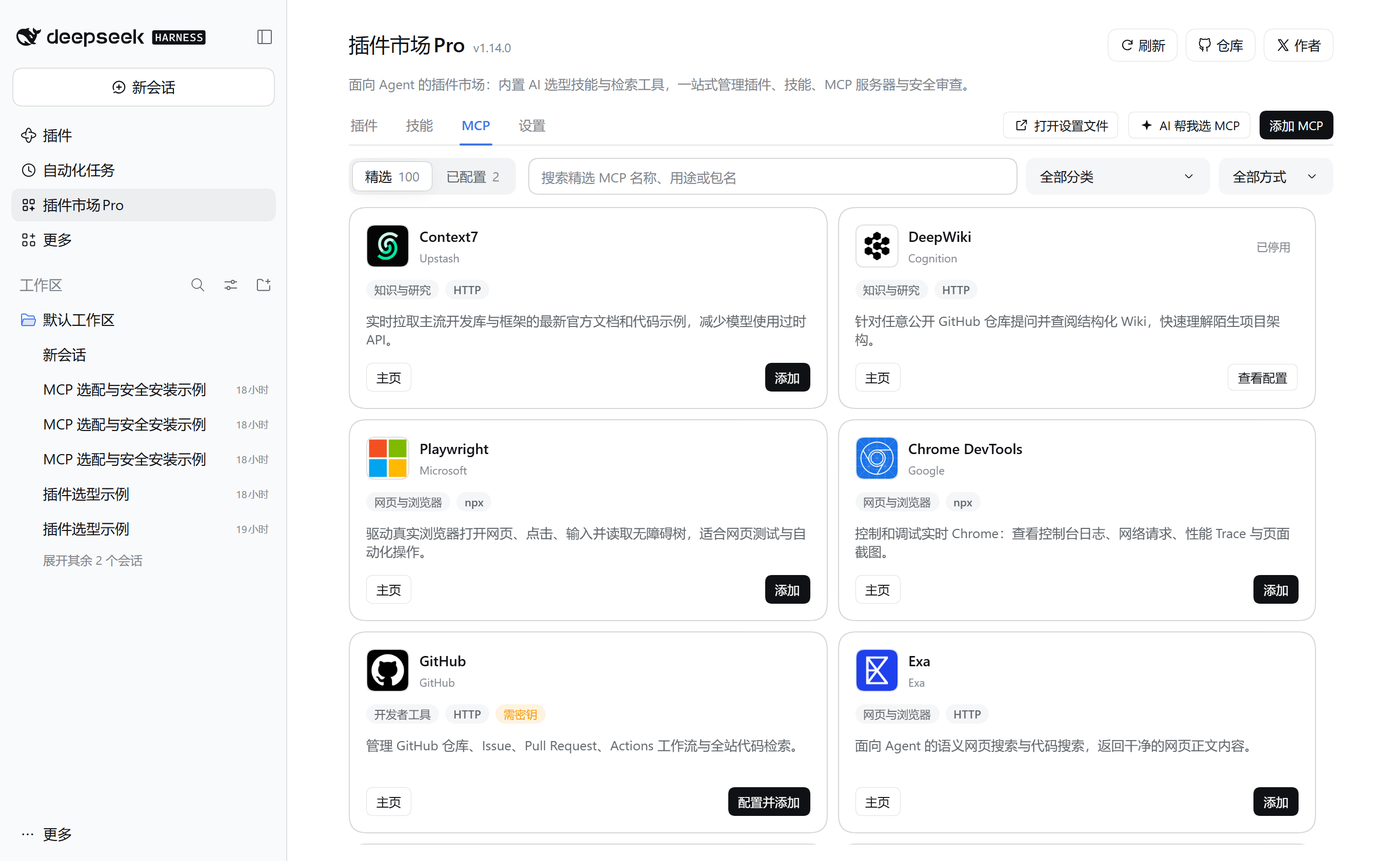
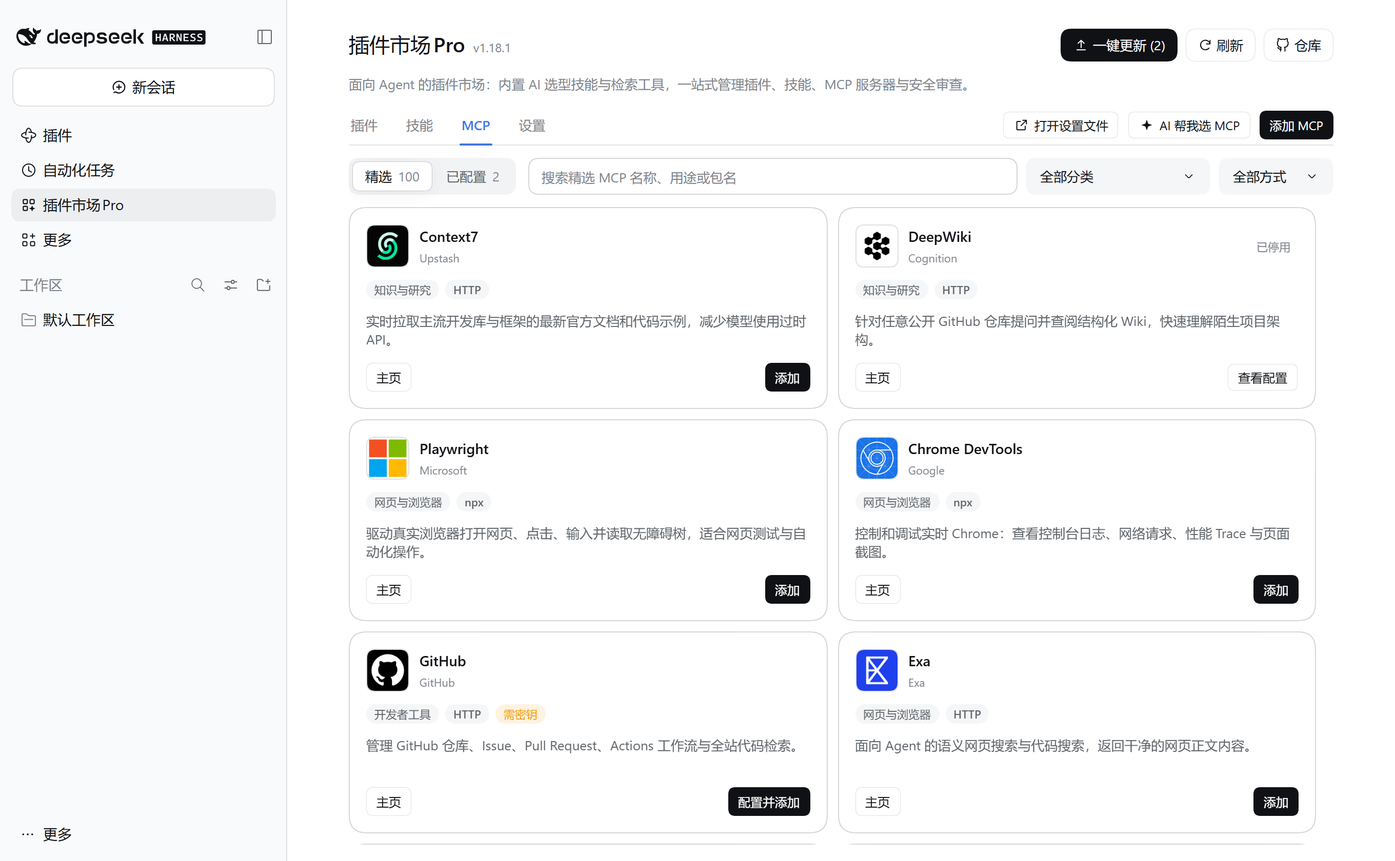
docs: refresh README and screenshots for v1.18 features

Changed region(s): [[0.0312, 0.5262, 0.1562, 0.681], [0.75, 0.031, 0.9375, 0.0929], [0.0312, 0.4024, 0.1562, 0.4952]]

diff --git a/README_EN.md b/README_EN.md
@@ -17,15 +17,18 @@ An AI-native third-party plugin marketplace for DeepSeek Harness (DSH) (web dire
 
 ## Key Features
 
-- **Agent-Native AI Discovery, Batch Updates & Safe Setup (Unified `/market-pro` Skill + Plugins, Skills & MCP Tools)**:
-  - Enabled by default as soon as `dsh-market-pro` is installed: automatically registers the unified bundled **`market-pro`** skill along with three underlying tools — **`dsh_market_pro`** (plugins & batch updates), **`dsh_skills_pro`** (100 curated Agent Skills & approval-gated direct install), and **`dsh_mcp_pro`** (curated & custom MCP setup) — and cleans them up automatically when disabled or uninstalled.
-  - **Discover plugins, skills, batch-update, and configure MCPs in conversation**: describe what you need in natural language, invoke **`/market-pro`** directly (including cross-type plugin vs skill vs MCP recommendations), or click **Ask AI to pick plugins**, **Ask AI to pick skills**, or **Ask AI to pick MCP** in the toolbar.
-  - **High-precision search & environment awareness**: supports CJK 2-gram fallback, bilingual multi-synonym queries, installed/configured filtering, and batch detail lookups across locally cached editor's picks, 29,000+ community repositories, 100 curated skills, and 100 built-in curated MCP servers — while checking installed plugins, skills, and live MCP servers to avoid duplicates.
-  - **Defense-in-depth anti-injection, native approval & zero plaintext secrets**: discovery and update checks are strictly read-only, scrubbing invisible Unicode payloads, neutralizing angle brackets, and wrapping output inside `<untrusted_market_data>` / `<untrusted_mcp_data>` / `<untrusted_skill_data>` envelopes. Plugin installs go through official `plugin_manager` approval; batch plugin updates (`update_plugins`) pin exact user-confirmed package/version pairs and fail closed through DSH's native approval prompt listing every item; curated skill direct installs (`install_featured`) and MCP mutations (`install_featured` / `install_custom` / `set_enabled`) likewise fail closed through native approval while rejecting plaintext secrets and auto-binding `${credential:REF}` templates.
-  - **Instant toggle, zero-token friendly**: turn **AI Discovery Assistant (Plugins, Skills & MCP)** off anytime in **DSH Market Pro → Settings** to withdraw the bundled skill and all tools immediately with zero standing token overhead, or toggle online catalog access per profile. Compact **Refresh** and **Repo** buttons sit in the top-right header for quick access and feedback.
-- **Curated & Full Catalog**: Filters out unrelated projects and topic riders. Opens on editor's picks while offering the full verified catalog with category filters, keyword/package search, **Active & popular / Most stars / Recently updated** sorting in **All**, and guided cross-scope switching when a narrower view has no matches.
-- **One-Click Install**: Install and enable plugins directly from their cards; for repositories without direct install metadata, generate a prompt draft so your AI agent can verify and install them for you.
-- **Manage, Filter & Batch-Update Installed Plugins**: Installed plugin cards share the same unified card geometry as Skills and MCP, automatically displaying catalog brand logos, category tags, and localized titles/descriptions (all searchable). Filter by **All installed / Updates available**, toggle enable/disable states live without restarting, uninstall, pick from scrollable version lists per plugin, or run **Update all** (confirm checklist → sequential updates with skip-on-failure & retry failed → summary, automatically ordering `dsh-market-pro` last). When `dsh-market-pro` itself has an update, a quick update button also appears next to Refresh in the header.
+- **Agent-Native AI Discovery, Install & Batch Updates (Unified `/market-pro` Skill + Plugins, Skills & MCP Tools)**:
+  - Enabled by default as soon as `dsh-market-pro` is installed: automatically registers the unified bundled **`market-pro`** skill along with three underlying tools — **`dsh_market_pro`** (plugins, compatibility checks, `install_plugin`, & batch updates), **`dsh_skills_pro`** (100 curated Agent Skills & approval-gated direct install), and **`dsh_mcp_pro`** (curated & custom MCP setup) — and cleans them up automatically when disabled or uninstalled.
+  - **Discover plugins, install packages, pick skills, configure MCPs, and batch-update in conversation**: describe what you need in natural language, invoke **`/market-pro`** directly (including cross-type plugin vs skill vs MCP recommendations), or click **Ask AI to pick plugins**, **Ask AI to pick skills**, or **Ask AI to pick MCP** in the toolbar.
+  - **High-precision search, environment awareness & compatibility diagnostics**: supports CJK 2-gram fallback, bilingual multi-synonym queries, installed/configured filtering, and batch detail lookups across locally cached editor's picks, 29,000+ community repositories, 100 curated skills, and 100 built-in curated MCP servers — checking installed plugins, skills, and live MCP servers to avoid duplicates while surfacing bidirectional DSH version compatibility and compatible fallback releases.
+  - **Defense-in-depth anti-injection, native approval & zero plaintext secrets**: discovery and update checks are strictly read-only, scrubbing invisible Unicode payloads, neutralizing angle brackets, and wrapping output inside `<untrusted_market_data>` / `<untrusted_mcp_data>` / `<untrusted_skill_data>` envelopes. After you confirm, plugin installs run directly through `dsh_market_pro`'s **`install_plugin`** with DSH native approval and explicit `pendingBuilds` script authorization (working out of the box in Standard mode; falling back to `plugin_manager` only when unavailable or for local/non-GitHub/Gitee sources). Batch plugin updates (`update_plugins`) pin exact user-confirmed package/version pairs and fail closed through DSH's native approval prompt listing every item; curated skill direct installs (`install_featured`) and MCP mutations (`install_featured` / `install_custom` / `set_enabled`) likewise fail closed through native approval while rejecting plaintext secrets and auto-binding `${credential:REF}` templates.
+  - **Instant toggle, zero-token friendly**: turn **AI Discovery Assistant (Plugins, Skills & MCP)** off anytime in **DSH Market Pro → Settings** to withdraw the bundled skill and all tools immediately with zero standing token overhead, toggle online catalog access per profile, manage telemetry privacy settings, or use the permanent GitHub Star link. Compact **Refresh** and **Repo** buttons sit in the top-right header alongside **Update all (N)** whenever any installed plugin has an update.
+- **Curated, Official Experimental & Full Catalog**: Filters out unrelated projects and topic riders. Opens on editor's picks, includes an **Experimental** sub-tab synced live with the Host for official DSH experimental bundles (state filter, on-demand install & enable, updates, and uninstall feedback), and offers the full verified community catalog with category filters, keyword/package search, **Active & popular / Most stars / Recently updated** sorting in **All**, and guided cross-scope switching when a narrower view has no matches.
+- **One-Click Install & Add Plugin Dialog**: Install and enable catalog plugins directly from their cards, or generate a prompt draft so your AI agent can verify and install unlisted repositories. Click **Add plugin** to manually install npm packages (`pkg@version`), GitHub/Git HTTPS URLs (`#branch` / `#path:subdir`), or local paths (`file:` / `link:`), complete with a collapsible install guide, registry selector (default / npm official / China mirror / custom registry), and checking/unknown-state recovery.
+- **Bidirectional DSH Version Compatibility & Multi-Version Fallback**:
+  - **Directional diagnosis**: distinguishes "plugin requires a newer DSH" (**DSH upgrade needed**) from "plugin only supports older DSH releases and was skipped by the runtime" (**Plugin outdated** / **Incompatible**), as well as partially compatible monorepos — presenting exact version constraints and remedies across catalog cards, install modals, Installed/Experimental cards, update selectors, and AI tool output while disabling invalid Enable buttons.
+  - **Multi-version compatible fallback**: when the latest release in a subscription feed targets a newer DSH, automatically selects the newest compatible release for your running Host with an inline notice in the install dialog, and displays localized `incompatible-version` guidance (hiding invalid retry) if an install is blocked at runtime.
+- **Manage, Filter & Batch-Update Installed Plugins**: Installed plugin cards share the same unified card geometry as Skills and MCP, reading local DSH `locale/*.json` metadata and local package icons without circular avatar cropping alongside catalog brand logos (all searchable). Filter by **All installed / Updates available**, toggle enable/disable states live without restarting, uninstall with elapsed-time & refresh status feedback during slow cleanups, pick from scrollable version lists per plugin (with directional compatibility reasons on blocked versions), or run **Update all** (confirm checklist → sequential updates with skip-on-failure & retry failed → summary, automatically ordering `dsh-market-pro` last) right from the **Update all (N)** header button whenever any plugin has an update.
 - **Post-Install AI Review**: Prepare a review draft in your conversation input box (sent only when you confirm) to have your AI agent inspect installed plugin files for network calls, credential access, scripts, and other potential risks.
 - **Curated Skills Direct Install, Verified Provenance & Grouped Management**:
   - **100 curated Agent Skills (from skills.sh All Time)**: organized under the same 7 functional categories as Plugins (with category + source dropdown filters) and displaying real organization/author brand logos;
@@ -45,10 +48,10 @@ Compared with other common discovery and management approaches, DSH Market Pro u
 | Dimension | DSH Market Pro (This Plugin) | Official DSH Discover (`dsh-plugin-market`) | Typical UI-Only / Broad Community Markets | Standalone Discovery Skill / MCP Server |
 |---|---|---|---|---|
 | **Catalog Quality & Curation** | **Verified real plugins + curated skills + curated MCPs**: daily checks filter out topic riders, empty repos, and non-plugins; combines **editor's picks + 29,000+ full catalog + 100 curated skills + 100 curated MCPs** with local cache & mirror failover (including jsDelivr fallback for skills) | Reads user-configured format-1 index URLs only; does not ship a built-in community directory | Many aggregate broadly by GitHub topic, often mixing non-plugins or uninstallable repos that require manual filtering | Relies on external registry APIs or CLIs with limited DSH manifest & install-target coverage |
-| **In-Chat AI Discovery & Setup** | **Enabled by default in Standard & Creator modes**: unified bundled `/market-pro` skill and `dsh_market_pro` + `dsh_skills_pro` + `dsh_mcp_pro` tools for cross-type discovery, approval-gated batch plugin updates, and safe MCP install/toggle | Exposes `plugin_market` tool, but **enabled only in Creator preset by default** with no companion discovery skill or MCP installer | Mostly click-to-browse UIs without autonomous in-chat catalog search | Supports chat discovery, but usually requires an extra MCP subprocess or CLI and provides no management UI |
-| **Environment Awareness** | Jointly inspects active profile **installed plugins + managed/static MCPs & live tool groups**, skips duplicates, and recommends complementary capabilities | Annotates listing install status without MCP/skills cross-checking | Typically limited to per-card installed badges rather than conversation-level planning | Generally lacks direct visibility into the active DSH profile's installed plugins and managed MCPs |
-| **Management Scope** | **Plugins + Skills + Curated & Managed MCPs + Settings** in one place (live toggle, updates-available filter & one-click batch updates, one-click curated MCP add, adoption, credentials, tools dialog) | Focused on plugin discovery and installation; no Skills tab or MCP manager UI | Focused on browsing, ratings, or discussions; managing MCP/skills usually requires separate plugins | Single-purpose (skills-only or MCP-only), without host plugin lifecycle management |
-| **Security & Anti-Injection** | **Defense-in-depth** (invisible Unicode scrubbing + angle-bracket neutralization + untrusted-data envelopes) + official `plugin_manager` / native approval + **zero plaintext secrets** + **post-install AI review** | Notes untrusted text in tool description; installs via official `plugin_manager` approval | Varies by project; mostly UI notices or install-time checks | Primarily relies on prompt-level confirmation reminders, rarely enforcing protocol isolation or zero-plaintext-secret checks |
+| **In-Chat AI Discovery & Setup** | **Enabled by default in Standard & Creator modes**: unified bundled `/market-pro` skill and `dsh_market_pro` + `dsh_skills_pro` + `dsh_mcp_pro` tools for cross-type discovery, compatibility checks, native-approval `install_plugin` & batch plugin updates, and safe MCP install/toggle | Exposes `plugin_market` tool, but **enabled only in Creator preset by default** with no companion discovery skill or MCP installer | Mostly click-to-browse UIs without autonomous in-chat catalog search | Supports chat discovery, but usually requires an extra MCP subprocess or CLI and provides no management UI |
+| **Environment Awareness** | Jointly inspects active profile **installed plugins + managed/static MCPs & live tool groups**, skips duplicates, and checks bidirectional DSH compatibility + fallback releases | Annotates listing install status without MCP/skills cross-checking | Typically limited to per-card installed badges rather than conversation-level planning | Generally lacks direct visibility into the active DSH profile's installed plugins and managed MCPs |
+| **Management Scope** | **Plugins (Featured / Experimental / All / Add plugin) + Skills + Curated & Managed MCPs + Settings** in one place (live toggle, updates filter & header **Update all (N)**, curated MCP one-click add, adoption, credentials, tools dialog) | Focused on plugin discovery and installation; no Skills tab or MCP manager UI | Focused on browsing, ratings, or discussions; managing MCP/skills usually requires separate plugins | Single-purpose (skills-only or MCP-only), without host plugin lifecycle management |
+| **Security & Anti-Injection** | **Defense-in-depth** (invisible Unicode scrubbing + angle-bracket neutralization + untrusted-data envelopes) + `install_plugin` / native approval (with `pendingBuilds` authorization) + **zero plaintext secrets** + **post-install AI review** | Notes untrusted text in tool description; installs via official `plugin_manager` approval | Varies by project; mostly UI notices or install-time checks | Primarily relies on prompt-level confirmation reminders, rarely enforcing protocol isolation or zero-plaintext-secret checks |
 | **Token Overhead Control** | Compact single-language output & batch lookups; **one-click toggle in Settings** immediately withdraws all skills & tools for **zero standing token cost** | Schema cost applies in presets where the tool is enabled | Passive UI with zero standing conversation overhead | Separate MCP process continuously injects tool schemas into sessions |
 
 > This comparison reflects public implementations and typical designs. Each approach has its own focus (for example, UI-focused markets work well if you prioritize community comments or screenshot galleries). DSH Market Pro is built for users who want a **verified plugin dataset, built-in curated MCP catalog, unified plugin/skill/MCP management**, and an **out-of-the-box yet instantly toggleable agent-native discovery loop**.
@@ -80,8 +83,8 @@ Or invoke the unified bundled skill explicitly:
 Your agent uses `dsh_market_pro` to:
 
 1. **Inspect your environment** (`environment`) to see installed plugins and MCP servers and avoid duplicates.
-2. **Search curated & full catalogs** (`featured` / `search` / `detail`) to verify install targets, activity, and prerequisites.
-3. **Compare and install safely** — presenting 2–4 tailored options and invoking the official `plugin_manager` only after your confirmation, followed by an optional read-only security review.
+2. **Search curated & full catalogs** (`featured` / `search` / `detail`) to verify install targets, activity, prerequisites, and bidirectional DSH compatibility (automatically selecting the newest compatible fallback release when multi-version metadata is present).
+3. **Compare and install safely** — presenting 2–4 tailored options and calling `dsh_market_pro`'s **`install_plugin`** directly after your confirmation to trigger DSH native approval and explicit `pendingBuilds` script authorization in Standard mode (falling back to `plugin_manager` for local paths or when unavailable), followed by an optional read-only security review.
 
 ![Chat-native AI plugin discovery](https://raw.githubusercontent.com/bruc3van/dsh-market-pro/master/assets/screenshots/marketplace-ai-chat.png)
 
@@ -131,11 +134,23 @@ Your agent uses `dsh_skills_pro` to complete a safe end-to-end flow:
 
 ## Interface Preview
 
-### Marketplace Settings (AI Assistant & Catalog Switches)
+### Marketplace Settings (AI Assistant, Catalog & Support)
 
-Toggle **AI Discovery Assistant (Plugins, Skills & MCP)** and **Community Plugin Catalog** from the **Settings** tab with immediate effect and per-profile persistence, or jump straight into chat to try AI discovery.
+Toggle **AI Discovery Assistant (Plugins, Skills & MCP)**, **Community Plugin Catalog**, and **Anonymous Usage Telemetry** (with an inline privacy link) from the **Settings** tab with immediate effect and per-profile persistence, jump straight into chat to try AI discovery, or open the permanent GitHub Star link.
 
 ![Marketplace settings view](https://raw.githubusercontent.com/bruc3van/dsh-market-pro/master/assets/screenshots/marketplace-settings.png)
+
+### Official Experimental Plugins
+
+Switch to **Experimental** to manage official optional and experimental DSH bundles synced live with the Host — filter by enabled state, install and enable on demand, apply updates, monitor uninstall progress, and inspect directional compatibility guidance if a bundle is incompatible with your running DSH build.
+
+![Official experimental plugins tab](https://raw.githubusercontent.com/bruc3van/dsh-market-pro/master/assets/screenshots/marketplace-official.png)
+
+### Manual Plugin Install & Registry Selector
+
+Click **Add plugin** in the toolbar to install directly from an npm package spec (with optional version), a GitHub/Git HTTPS URL (`#branch` / `#path:subdir`), or a local directory path — complete with collapsible examples, a registry selector (default / npm official / China mirror / custom registry), and inline compatibility checks.
+
+![Manual plugin install dialog](https://raw.githubusercontent.com/bruc3van/dsh-market-pro/master/assets/screenshots/marketplace-manual-install.png)
 
 ### Full Catalog & Sorting
 
@@ -165,7 +180,7 @@ In addition to the main navigation bar, you can open **DSH Market Pro** directly
 
 ### Installed Plugins, Filtering & Batch Updates
 
-Manage your installed plugins under the **Installed** tab: filter by **All installed / Updates available**, toggle enable/disable states live, uninstall, pick from scrollable version lists per plugin, or click **Update all** to confirm and sequentially upgrade plugins (skipping failures with one-click retry). When `dsh-market-pro` itself has an update, a quick update button also appears in the top-right header.
+Manage your installed plugins under the **Installed** tab with local `locale/*.json` titles/descriptions and crisp local package icons: filter by **All installed / Updates available**, toggle enable/disable states live, uninstall with elapsed-time & refresh feedback for slow cleanups, pick from scrollable version lists per plugin (with directional compatibility reasons when a release requires a newer or older Host), or click **Update all (N)** in the top-right header whenever any plugin has an update to confirm and sequentially upgrade plugins (skipping failures with one-click retry).
 
 ![Installed panel](https://raw.githubusercontent.com/bruc3van/dsh-market-pro/master/assets/screenshots/marketplace-installed.png)
 
@@ -193,7 +208,7 @@ Browse the 100 curated All Time skills from skills.sh under **Skills → Feature
 
 - **Security reminder**: Catalog inclusion verifies that a project is a DSH plugin, not that it is safe. Always review a plugin's source and requested permissions before installing.
 - **About AI review**: AI review is an optional post-install check on local plugin files to help you assess risk; it cannot prevent or undo code that has already executed during installation.
-- **Anonymous telemetry**: Enabled by default, sending a daily heartbeat (local random install ID, plugin & DSH version, host type, OS, locale) and official-catalog public plugin / curated MCP install outcomes to [dsh-market-pro.com](https://dsh-market-pro.com) to measure adoption and improve install reliability. It never collects chats, file paths, secrets, private plugins, or custom MCPs (non-public targets are dropped without sending). Turn it off anytime under **Settings → Anonymous Usage Telemetry** (stops immediately and clears the local ID) or via `DO_NOT_TRACK=1` / `DSH_MARKET_TELEMETRY=0` / `DSH_TELEMETRY_DISABLED=1`. See [PRIVACY.md](https://github.com/bruc3van/dsh-market-pro/blob/master/PRIVACY.md) for exact payload examples.
+- **Anonymous telemetry**: Enabled by default, sending a daily heartbeat (local random install ID, plugin & DSH version, host type, OS, locale) and official-catalog public plugin / built-in curated skill / built-in curated MCP install outcomes (mapping failures strictly to closed, privacy-safe error codes) to [dsh-market-pro.com](https://dsh-market-pro.com) to measure adoption and improve compatibility. It never collects chats, file paths, secrets, raw error stacks, private plugins, custom skills, or custom MCPs (non-public targets are dropped without sending). Turn it off anytime under **Settings → Anonymous Usage Telemetry** (stops immediately and clears the local ID) or via `DO_NOT_TRACK=1` / `DSH_MARKET_TELEMETRY=0` / `DSH_TELEMETRY_DISABLED=1` / `CI=true`. See [PRIVACY.md](https://github.com/bruc3van/dsh-market-pro/blob/master/PRIVACY.md) for exact payload examples.
 
 ## Related Projects
 

diff --git a/README.md b/README.md
@@ -19,15 +19,18 @@ DeepSeek Harness（DSH）的 AI 原生第三方插件市场（官网与在线目
 
 ## 主要功能
 
-- **面向 Agent 的 AI 原生选型与批量更新（统一内置 Skill `/market-pro` + 插件 · 技能 · MCP 三大工具）**：
-  - 安装并启用 `dsh-market-pro` 后，默认自动向当前 DSH 会话注册统一内置技能 **`market-pro`** 以及三大底层工具 **`dsh_market_pro`**（插件选型与批量更新）、**`dsh_skills_pro`**（100 精选技能检索、盘点与原生审批直装）、**`dsh_mcp_pro`**（精选与自定义 MCP 托管安装），无需手工配置，卸载或停用插件时自动清理。
-  - **直接对话即可挑插件、选技能、配 MCP、一键更插件**：在任意会话中自然语言描述需求，或输入 **`/market-pro`** 显式唤起（支持跨插件/技能/MCP 联合选型与去重）；也可以在市场顶部点击 **「AI 帮我选插件」**、**「AI 帮我选技能」** 或 **「AI 帮我选 MCP」** 一键发起对话。
-  - **精准检索与智能盘点**：支持中文分词回退、中英多同义词并查、已装/已配项过滤与批量详情核对，直接读取本地缓存的编辑精选、2.9 万+ 全量插件目录、100 个精选技能与内置 100 个精选 MCP 目录，并联合盘点当前环境已安装的插件、技能与 MCP 避免重复推荐。
-  - **纵深防注入、原生审批与零明文密钥**：所有检索与更新探测严格只读，对第三方元数据执行隐形 Unicode 剥离、尖括号中和与 `<untrusted_market_data>` / `<untrusted_mcp_data>` / `<untrusted_skill_data>` 协议边界隔离；插件安装经你确认后交由官方 `plugin_manager` 走宿主审批，插件批量更新（`update_plugins`）严格绑定你确认过的精确包名与版本、强制走 DSH 原生审批（fail-closed）并完整列出每一项，技能直装（`install_featured`）与 MCP 安装/启停（`install_featured` / `install_custom` / `set_enabled`）同样强制走原生审批，拒绝一切明文密钥并自动绑定 `${credential:REF}` 凭据模板。
-  - **随时可控，兼顾零 Token 偏好**：在市场顶部的 **设置** 页签中可随时一键关闭或开启 **AI 选型助手（插件 · 技能 · MCP）**，关闭后立即撤回内置技能与全部工具、回归零常驻 Token；同时也支持一键开关社区目录联网加载，修改即时生效并随当前 profile 持久化。顶部操作栏直接展示 **刷新** 与 **仓库**，方便随时查阅与反馈。
-- **精选与全量目录**：剔除蹭标签与非插件项目。打开即展示编辑精选，同时提供完整插件目录，支持按分类筛选、关键词与包名搜索、「全部」目录按**活跃热门 / Star 最多 / 最近更新**排序，以及在精选或已安装范围搜不到时的**跨范围一键引导**。
-- **一键安装**：已收录安装信息的插件可直接点击安装并启用；未提供直接安装信息的仓库，可一键生成提示词交由 AI 核实后完成安装。
-- **已安装管理、筛选与一键批量更新**：已安装插件卡片与精选/技能/MCP 统一卡片几何与视觉层次，自动关联目录品牌 Logo、分类标签与中英文简介（均支持关键词检索），支持随时启用/停用（立即生效，无需重启）、卸载、按**全部状态 / 有新版**筛选，以及单插件多版本选择升级与**一键批量更新**（先弹窗确认清单、可勾选、依次更新、失败项自动跳过并支持重试、本插件自动最后更新）；当 `dsh-market-pro` 自身有新版时，主面板右上角刷新按钮旁直接提供快捷更新按钮。
+- **面向 Agent 的 AI 原生选型、直装与批量更新（统一内置 Skill `/market-pro` + 插件 · 技能 · MCP 三大工具）**：
+  - 安装并启用 `dsh-market-pro` 后，默认自动向当前 DSH 会话注册统一内置技能 **`market-pro`** 以及三大底层工具 **`dsh_market_pro`**（插件选型、兼容性检查、`install_plugin` 安全直装与批量更新）、**`dsh_skills_pro`**（100 精选技能检索、盘点与原生审批直装）、**`dsh_mcp_pro`**（精选与自定义 MCP 托管安装），无需手工配置，卸载或停用插件时自动清理。
+  - **直接对话即可挑插件、装插件、选技能、配 MCP、一键更插件**：在任意会话中自然语言描述需求，或输入 **`/market-pro`** 显式唤起（支持跨插件/技能/MCP 联合选型与去重）；也可以在市场顶部点击 **「AI 帮我选插件」**、**「AI 帮我选技能」** 或 **「AI 帮我选 MCP」** 一键发起对话。
+  - **精准检索、环境盘点与兼容性诊断**：支持中文分词回退、中英多同义词并查、已装/已配项过滤与批量详情核对，直接读取本地缓存的编辑精选、2.9 万+ 全量插件目录、100 个精选技能与内置 100 个精选 MCP 目录；联合盘点当前环境已安装的插件、技能与 MCP 避免重复推荐，并在检索、详情与更新前自动识别插件与当前 DSH 版本的双向兼容性及多版本自动回退版本。
+  - **纵深防注入、原生审批与零明文密钥**：所有检索与更新探测严格只读，对第三方元数据执行隐形 Unicode 剥离、尖括号中和与 `<untrusted_market_data>` / `<untrusted_mcp_data>` / `<untrusted_skill_data>` 协议边界隔离；插件安装经你确认后直接通过 `dsh_market_pro` 的 `install_plugin` 发起 DSH 原生审批与构建脚本（`pendingBuilds`）显式授权（标准模式即可直接使用；仅在 API 不可用或安装本地/非 GitHub·Gitee 来源时回退至 `plugin_manager`），插件批量更新（`update_plugins`）严格绑定你确认过的精确包名与版本、强制走 DSH 原生审批（fail-closed）并完整列出每一项，技能直装（`install_featured`）与 MCP 安装/启停（`install_featured` / `install_custom` / `set_enabled`）同样强制走原生审批，拒绝一切明文密钥并自动绑定 `${credential:REF}` 凭据模板。
+  - **随时可控，兼顾零 Token 偏好**：在市场顶部的 **设置** 页签中可随时一键关闭或开启 **AI 选型助手（插件 · 技能 · MCP）**，关闭后立即撤回内置技能与全部工具、回归零常驻 Token；同时也支持一键开关社区目录联网加载、查看/关闭匿名统计，并在设置页内置永久 GitHub Star 支持入口，修改即时生效并随当前 profile 持久化。顶部操作栏直接展示 **刷新** 与 **仓库**，并在检测到任意已安装插件有新版时展示 **一键更新 (N)**。
+- **精选、官方实验性与全量目录**：剔除蹭标签与非插件项目。打开即展示编辑精选，提供 **官方实验性** 子页签与宿主实时同步管理 DSH 内置可选/实验性插件（支持按启用状态筛选、按需安装并启用、版本更新与卸载进度反馈），同时提供完整社区目录，支持按分类筛选、关键词与包名搜索、「全部」目录按**活跃热门 / Star 最多 / 最近更新**排序，以及在局部视图搜不到时的**跨范围一键引导**。
+- **一键安装与手动添加插件**：已收录安装信息的插件可直接点击安装并启用；未提供直接安装信息的仓库，可一键生成提示词交由 AI 核实后完成安装。右上角提供 **添加插件** 弹窗，支持输入 npm 包名（可指定版本）、GitHub / Git 仓库地址（支持 `#分支` 与 `#path:子目录`）或本地目录路径，内置可折叠安装引导示例、多安装源切换（默认源 / npm 官方源 / 中国大陆镜像 / 自定义私服）与检查/未知状态恢复机制。
+- **双向 DSH 版本兼容性校验与多版本自动回退**：
+  - **双向识别与方向性提示**：不仅拦截「插件要求更高版本 DSH」（**需升级 DSH**），也能识别「插件仅支持旧版宿主、已被当前 DSH 拒绝加载」（**插件版本过旧** / **版本不兼容**），以及 Monorepo 半安装兼容性问题，在卡片、安装弹窗、已安装/官方实验性卡片、更新列表与 AI 工具返回中统一呈现具体版本要求与修复指引（引导升级 DSH 或更新插件，并禁用无效启用按钮）。
+  - **订阅多版本自动兼容回退**：当订阅插件最新版需要更高版本 DSH 时，自动从多版本索引中选用适配当前 DSH 的最新兼容稳定版，并在安装弹窗中给出内联说明；若安装包仍因版本不兼容被宿主拦截，则本地化展示失败详情并隐藏无效重试按钮。
+- **已安装管理、筛选与一键批量更新**：已安装插件卡片与精选/技能/MCP 统一卡片几何与视觉层次，读取本地插件 `locale/*.json` 多语言名称/简介与包内本地图标（去除头像圆角裁切）并关联目录品牌 Logo，支持随时启用/停用（立即生效，无需重启）、卸载（慢清理时实时显示耗时安抚与状态刷新）、按**全部状态 / 有新版**筛选，以及单插件多版本选择升级（对不兼容历史/新版给出方向性禁用原因）与**一键批量更新**（先弹窗确认清单、可勾选、依次更新、失败项自动跳过并支持重试、本插件自动最后更新）；无论哪个已安装插件有新版，主面板右上角都会直接显示 **一键更新 (N)** 快捷按钮。
 - **安装后 AI 审查**：支持对已安装插件生成审查草稿并填入对话框（由你确认发送），让 AI 协助排查本地插件代码中的联网请求、凭据读取或脚本执行等潜在风险。
 - **精选技能零依赖直装、来源校验与分组管理**：
   - **100 个精选 Agent 技能（源自 skills.sh All Time）**：与插件统一采用 7 大功能分类（顶栏提供分类 + 来源双下拉筛选），全量展示对应开源组织/作者的真实品牌 Logo；
@@ -47,10 +50,10 @@ DeepSeek Harness（DSH）的 AI 原生第三方插件市场（官网与在线目
 | 对比维度 | DSH Market Pro（本插件） | DSH 官方发现页 (`dsh-plugin-market`) | 常见纯 UI / 泛收录社区市场 | 独立发现型 Skill / MCP 服务 |
 |---|---|---|---|---|
 | **数据源与筛选质量** | **严选真插件 + 精选技能 + 精选 MCP**：每日核验并剔除蹭标签、空仓与非插件项目；提供**编辑精选 + 2.9 万+ 全量插件目录 + 100 个精选技能 + 100 个精选 MCP**，内置国内镜像容灾（含技能 jsDelivr 回退）与本地持久化缓存 | 仅读取用户手动添加的 format-1 订阅索引，自身不内置社区目录 | 部分目录按 GitHub topic 泛抓取，容易混入非插件或无法安装的仓库，需人工甄别 | 依赖第三方聚合 API 或外部 CLI，对 DSH 插件结构与安装目标覆盖有限 |
-| **对话内 AI 选型与配置** | **安装即默认开启，标准模式可用**：统一内置 `/market-pro` 技能与 `dsh_market_pro` + `dsh_skills_pro` + `dsh_mcp_pro` 工具，支持跨形态选型、原生审批一键批量更新插件，以及安全安装/启停 MCP | 提供 `plugin_market` 工具，但**默认仅在 Creator 模式启用**，无配套选型技能与 MCP 安装能力 | 多数侧重界面点击浏览，不提供对话内 Agent 自主查库选型 | 可在对话中检索，但需额外配置独立 MCP 子进程或外部 CLI，缺少可视化管理界面 |
-| **环境感知与去重** | 自动联合盘点当前 profile **已安装插件 + 托管/静态 MCP 与工具组**，自动过滤已装项并推荐互补能力 | 标注订阅条目的安装状态，不含 MCP/技能联合盘点 | 多以卡片已安装徽章为主，不参与对话级能力规划 | 通常无法直接读取当前 DSH profile 的已安装插件与托管 MCP 状态 |
-| **一站式管理范围** | **插件 + 技能 + 精选与托管 MCP + 市场设置**四合一（支持热启停、有新版筛选与一键批量更新、精选 MCP 一键添加、转托管、凭据管理与工具弹窗） | 聚焦插件发现与管理，不含技能页和 MCP 托管界面 | 侧重插件浏览、评分或社区讨论，通常需另装插件管理 MCP 与技能 | 仅聚焦单一类型（只搜 Skill 或只搜 MCP），不含宿主插件管理 |
-| **安全与防注入** | **纵深防注入**（剥离隐形 Unicode + 尖括号中和 + 数据边界隔离）+ 官方 `plugin_manager` / 原生审批 + **零明文密钥凭据模板** + **安装后只读 AI 审查** | 工具描述声明不可信数据，安装走官方 `plugin_manager` 审批 | 各方案策略不一，以页面提示或安装时校验为主 | 多依赖提示词提醒先确认，较少提供协议级数据隔离与零明文密钥强校验 |
+| **对话内 AI 选型与配置** | **安装即默认开启，标准模式可用**：统一内置 `/market-pro` 技能与 `dsh_market_pro` + `dsh_skills_pro` + `dsh_mcp_pro` 工具，支持跨形态选型、兼容性诊断、`install_plugin` 原生审批直装与一键批量更新插件，以及安全安装/启停 MCP | 提供 `plugin_market` 工具，但**默认仅在 Creator 模式启用**，无配套选型技能与 MCP 安装能力 | 多数侧重界面点击浏览，不提供对话内 Agent 自主查库选型 | 可在对话中检索，但需额外配置独立 MCP 子进程或外部 CLI，缺少可视化管理界面 |
+| **环境感知与去重** | 自动联合盘点当前 profile **已安装插件 + 托管/静态 MCP 与工具组**，自动过滤已装项并检查双向 DSH 版本兼容性与兼容替代版本 | 标注订阅条目的安装状态，不含 MCP/技能联合盘点 | 多以卡片已安装徽章为主，不参与对话级能力规划 | 通常无法直接读取当前 DSH profile 的已安装插件与托管 MCP 状态 |
+| **一站式管理范围** | **插件（精选/官方实验性/全量/手动添加）+ 技能 + 精选与托管 MCP + 市场设置**四合一（支持热启停、有新版筛选与右上角 `一键更新 (N)`、精选 MCP 一键添加、转托管、凭据管理与工具弹窗） | 聚焦插件发现与管理，不含技能页和 MCP 托管界面 | 侧重插件浏览、评分或社区讨论，通常需另装插件管理 MCP 与技能 | 仅聚焦单一类型（只搜 Skill 或只搜 MCP），不含宿主插件管理 |
+| **安全与防注入** | **纵深防注入**（剥离隐形 Unicode + 尖括号中和 + 数据边界隔离）+ `install_plugin` / 原生审批（含脚本 `pendingBuilds` 授权）+ **零明文密钥凭据模板** + **安装后只读 AI 审查** | 工具描述声明不可信数据，安装走官方 `plugin_manager` 审批 | 各方案策略不一，以页面提示或安装时校验为主 | 多依赖提示词提醒先确认，较少提供协议级数据隔离与零明文密钥强校验 |
 | **Token 开销控制** | 紧凑单语输出 + 批量查询省轮次；可在 **设置页一键关闭**，立即撤回全部技能与工具，回归**零常驻 Token** | 仅在启用该工具的预设中占用工具声明 | 被动 UI 运行，无常驻对话开销 | 外部 MCP 常驻子进程并持续注入工具 schema |
 
 > 以上对比基于各方案公开形态与典型定位，不同工具各有侧重（例如纯 UI 市场适合偏好社区评论与截图浏览的用户）。如果你希望在 DSH 中同时获得**经过核实的真插件数据源、内置精选 MCP 目录、插件/技能/MCP 一体化管理**以及**开箱即用、随时可关的 Agent 原生选型闭环**，DSH Market Pro 会更省心。
@@ -82,8 +85,8 @@ DeepSeek Harness（DSH）的 AI 原生第三方插件市场（官网与在线目
 Agent 会通过 `dsh_market_pro` 自动完成以下流程：
 
 1. **环境盘点**（`environment`）：了解当前 profile 已安装的插件和 MCP，避免重复推荐。
-2. **精选与全量检索**（`featured` / `search` / `detail`）：优先检索编辑精选与可直装插件，按需扩展至数万社区仓库并核对安装目标与前置依赖。
-3. **对比建议与安全安装**：给出 2–4 个候选对比；在你确认后，调用官方 `plugin_manager` 安装（保留宿主原生审批与脚本授权），并可继续执行只读安全审查。
+2. **精选与全量检索**（`featured` / `search` / `detail`）：优先检索编辑精选与可直装插件，按需扩展至数万社区仓库并核对安装目标、前置依赖及与当前 DSH 版本的双向兼容性（存在多版本索引时自动选择最新兼容版本）。
+3. **对比建议与安全安装**：给出 2–4 个候选对比；在你确认后，直接调用 `dsh_market_pro` 的 `install_plugin` 发起 DSH 原生审批（标准模式可用，若触发 `pendingBuilds` 需你显式授权构建脚本；本地路径或 API 不可用时回退至 `plugin_manager`），并可继续执行只读安全审查。
 
 ![对话内 AI 原生选插件](https://raw.githubusercontent.com/bruc3van/dsh-market-pro/master/assets/screenshots/marketplace-ai-chat.png)
 
@@ -133,11 +136,23 @@ Agent 会通过 `dsh_skills_pro` 完成安全闭环：
 
 ## 界面预览
 
-### 市场设置（AI 助手与数据源开关）
+### 市场设置（AI 助手、数据源与支持入口）
 
-在 **设置** 页签中一键管理 **AI 选型助手（插件 · 技能 · MCP）** 与 **社区插件目录**，即时生效并随当前 profile 持久化，也可以直接点击按钮在对话中试用 AI 选型。
+在 **设置** 页签中一键管理 **AI 选型助手（插件 · 技能 · MCP）**、**社区插件目录** 与 **匿名使用统计**（内联隐私说明链接），即时生效并随当前 profile 持久化，也可以直接点击按钮在对话中试用 AI 选型或前往 GitHub 点亮 Star。
 
 ![市场设置页](https://raw.githubusercontent.com/bruc3van/dsh-market-pro/master/assets/screenshots/marketplace-settings.png)
+
+### 官方实验性插件
+
+切换到 **官方实验性** 与当前宿主实时同步管理 DSH 内置可选与实验性插件，支持按启用状态筛选、按需安装并启用、版本更新及卸载反馈；对不兼容当前 DSH 版本的异常插件也会给出方向性提示并保护性禁用开关。
+
+![官方实验性插件](https://raw.githubusercontent.com/bruc3van/dsh-market-pro/master/assets/screenshots/marketplace-official.png)
+
+### 手动添加插件与多安装源
+
+点击右上角 **添加插件**，直接通过 npm 包名（可指定版本）、GitHub / Git 仓库地址（支持 `#分支` / `#path:子目录`）或本地目录路径安装插件，内置可折叠安装引导示例、多安装源切换（默认安装源 / npm 官方源 / 中国大陆镜像 / 自定义地址）与兼容性诊断。
+
+![手动添加插件弹窗](https://raw.githubusercontent.com/bruc3van/dsh-market-pro/master/assets/screenshots/marketplace-manual-install.png)
 
 ### 全量目录与排序
 
@@ -167,7 +182,7 @@ Agent 会通过 `dsh_skills_pro` 完成安全闭环：
 
 ### 已安装管理、筛选与一键更新
 
-在 **已安装** 页面管理当前环境中的插件，支持按 **全部状态 / 有新版** 筛选、随时启停或卸载、单插件多版本选择升级，以及点击 **一键更新** 确认清单后按顺序批量升级（失败自动跳过并支持重试失败项）；当本插件有新版本时，主面板右上角也会直接展示快捷更新按钮。
+在 **已安装** 页面管理当前环境中的插件，自动读取本地 `locale/*.json` 名称简介与包内图标，支持按 **全部状态 / 有新版** 筛选、随时启停或卸载（慢清理时显示耗时提示与状态刷新）、单插件多版本选择升级（对需升级 DSH 或仅支持旧版宿主的版本分别给出禁用原因），以及当任意已安装插件有新版时直接点击右上角 **一键更新 (N)** 确认清单后按顺序批量升级（失败自动跳过并支持重试失败项）。
 
 ![已安装面板](https://raw.githubusercontent.com/bruc3van/dsh-market-pro/master/assets/screenshots/marketplace-installed.png)
 
@@ -195,7 +210,7 @@ Agent 会通过 `dsh_skills_pro` 完成安全闭环：
 
 - **安全提醒**：目录收录仅核实项目是否为 DSH 插件，不代表安全背书。安装前请留意插件来源与权限要求。
 - **关于 AI 审查**：AI 审查是在插件安装后对本地文件进行的辅助检查，供你评估风险参考，无法阻止或撤销插件安装时已经发生的执行。
-- **匿名使用统计**：默认开启，每天向 [dsh-market-pro.com](https://dsh-market-pro.com) 发送活跃心跳（本地随机安装 ID、插件与 DSH 版本、运行形态、操作系统与语言）以及官方公开目录插件/精选 MCP 的安装成功或失败结果，用于统计安装规模与改进兼容性。绝不采集对话、文件路径、密钥、私有插件或自定义 MCP（非公开目标直接丢弃不上报）；可在市场 **设置 → 匿名使用统计** 一键关闭（立即停发并清除本地 ID），或设置环境变量 `DO_NOT_TRACK=1` / `DSH_MARKET_TELEMETRY=0` / `DSH_TELEMETRY_DISABLED=1`。详情与报文样例见 [PRIVACY.md](https://github.com/bruc3van/dsh-market-pro/blob/master/PRIVACY.md)。
+- **匿名使用统计**：默认开启，每天向 [dsh-market-pro.com](https://dsh-market-pro.com) 发送活跃心跳（本地随机安装 ID、插件与 DSH 版本、运行形态、操作系统与语言）以及官方公开目录插件、内置精选技能与内置精选 MCP 的安装成功或失败结果（失败原因仅映射为脱敏闭集错误码），用于统计安装规模与改进兼容性。绝不采集对话、文件路径、密钥、原始错误堆栈、私有插件、自定义技能或自定义 MCP（非公开目标直接丢弃不上报）；可在市场 **设置 → 匿名使用统计** 一键关闭（立即停发并清除本地 ID），或设置环境变量 `DO_NOT_TRACK=1` / `DSH_MARKET_TELEMETRY=0` / `DSH_TELEMETRY_DISABLED=1` / `CI=true`。详情与报文样例见 [PRIVACY.md](https://github.com/bruc3van/dsh-market-pro/blob/master/PRIVACY.md)。
 
 ## 相关项目
 
